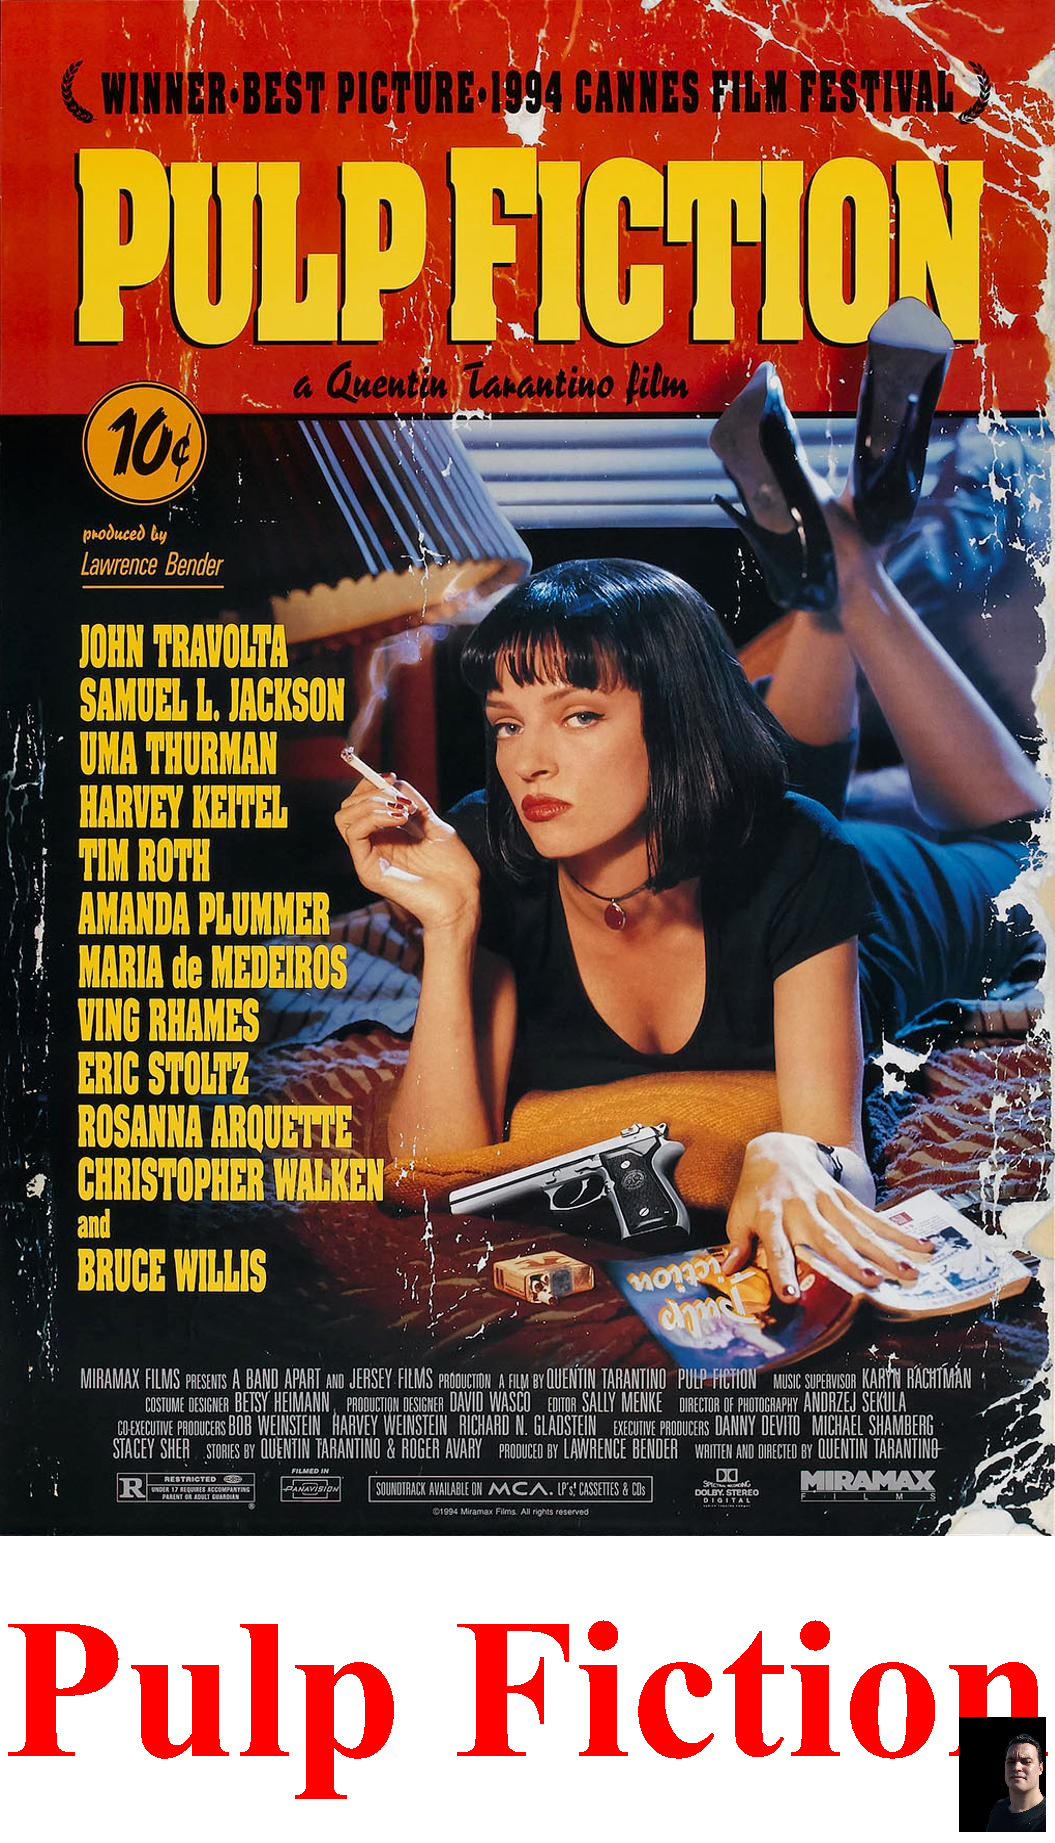
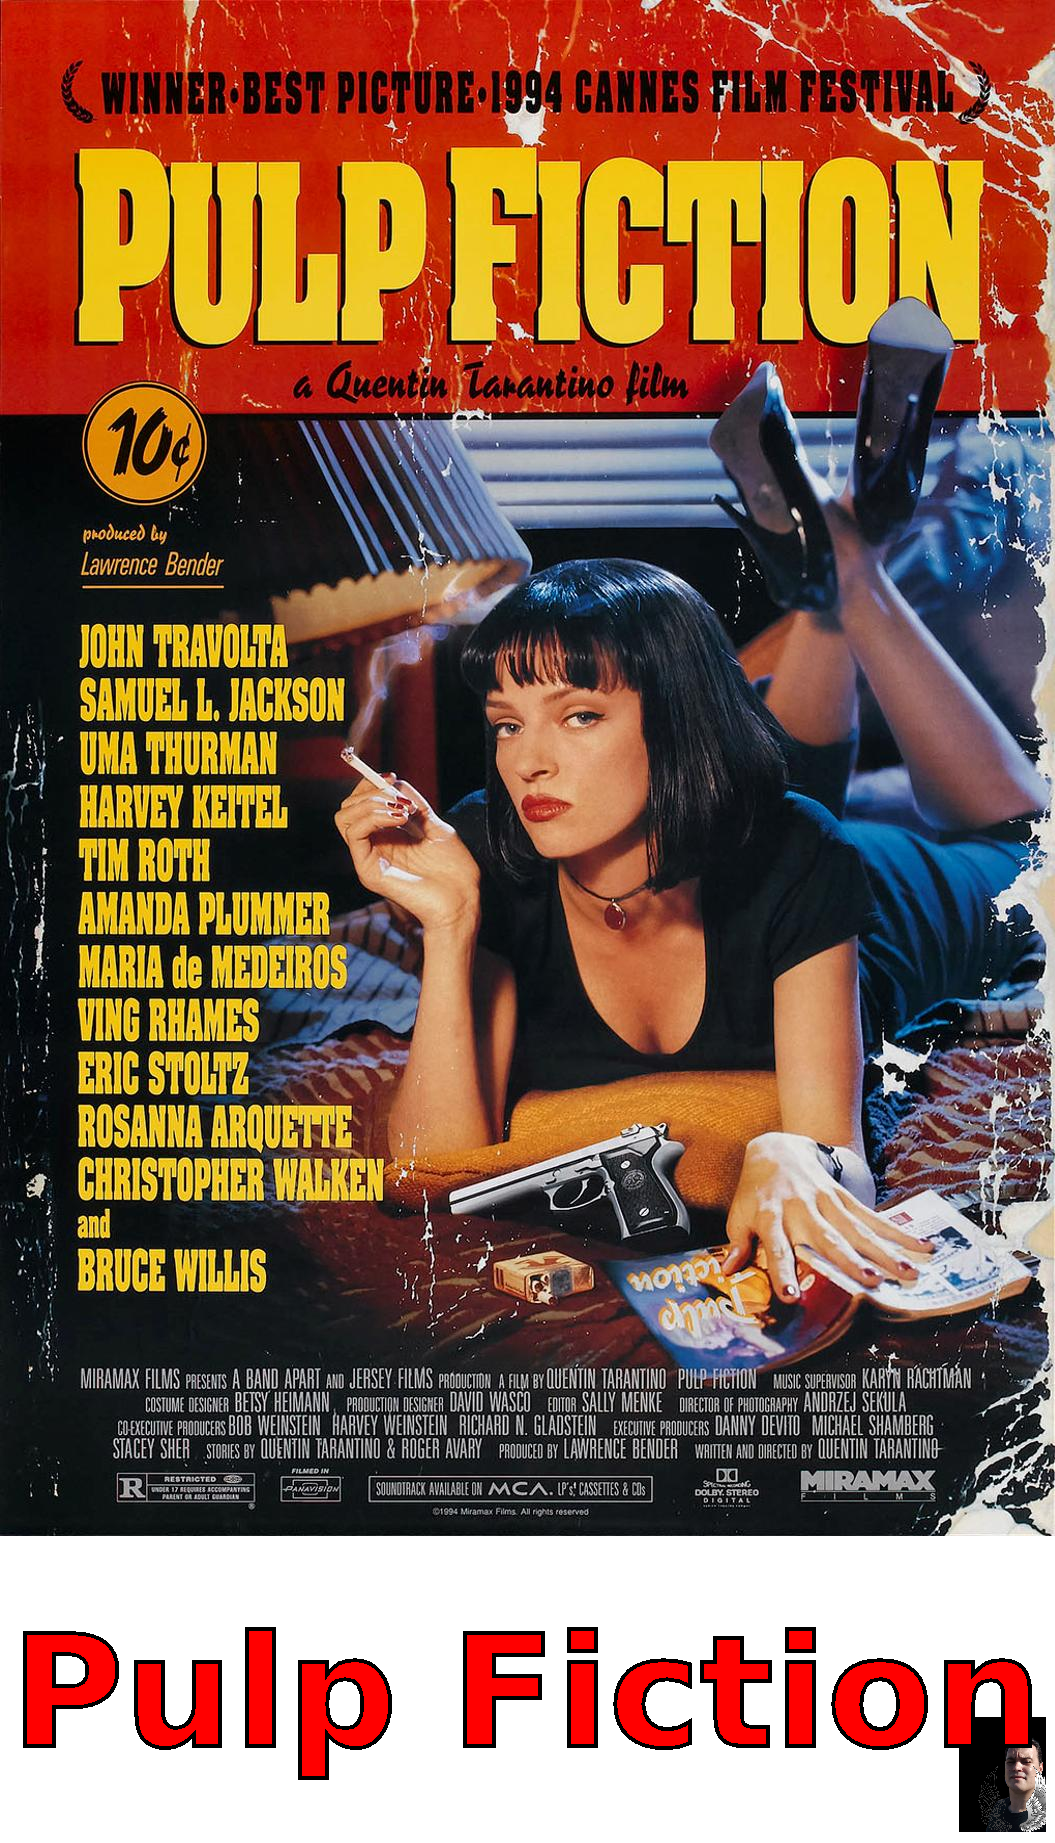
Added watermark and outline

Changed region(s): [[0.4246, 0.866, 1.0, 1.0], [0.0, 0.866, 0.3943, 0.9897]]

diff --git a/src/StickerFactory.java b/src/StickerFactory.java
@@ -1,7 +1,11 @@
+import java.awt.BasicStroke;
 import java.awt.Color;
 import java.awt.Font;
 import java.awt.Graphics2D;
-import java.awt.Image;
+import java.awt.Shape;
+import java.awt.font.FontRenderContext;
+import java.awt.font.TextLayout;
+import java.awt.geom.AffineTransform;
 import java.awt.image.BufferedImage;
 import java.awt.image.RenderedImage;
 import java.io.File;
@@ -39,10 +43,10 @@ public class StickerFactory {
     
     }
     public void create(InputStream sourceImage) throws IOException{
-        this.create(sourceImage, "");
+        this.create(sourceImage, "", null);
     } 
 
-    public void create(InputStream sourceImage, String text) throws IOException{
+    public void create(InputStream sourceImage, String text, InputStream watermark) throws IOException{
         /*
          * Clean source text
          */
@@ -67,32 +71,55 @@ public class StickerFactory {
         Graphics2D graphics = (Graphics2D) resized.getGraphics();
         graphics.drawImage(original, 0, 0, null);
 
+        
+        /*
+        * Configure water mark
+        */
+        if (watermark != null){
+            BufferedImage waterMarkImage = ImageIO.read(watermark);
+            float scale = Math.min((orgWidth/waterMarkImage.getWidth())*0.1f, (orgHeight/waterMarkImage.getHeight())*0.1f);
+            waterMarkImage = resizeImage(waterMarkImage, Math.round(waterMarkImage.getWidth()*scale), Math.round(waterMarkImage.getHeight()*scale));
+
+            /*
+            * Write water mark
+            */
+            graphics.drawImage(waterMarkImage, null, Math.round(orgWidth - waterMarkImage.getWidth()*1.1f), Math.round(rsdHeigth - waterMarkImage.getHeight()*1.1f));
+        }
+
+        
         /*
          * Configure text font
          */
         if(text.length() > 0){
-            Font font = new Font(Font.SERIF, Font.BOLD, getFontSize(graphics, text, Font.SERIF, Font.BOLD, orgHeight, orgWidth));
+            Font font = new Font("Imperial", Font.BOLD, getFontSize(graphics, text, Font.SERIF, Font.BOLD, orgHeight, orgWidth));
             graphics.setFont(font);
             graphics.setColor(Color.RED); 
         
         /*
         * Write text
         */
-            graphics.drawString(text, (orgWidth - graphics.getFontMetrics().stringWidth(text))/2 , rsdHeigth - (rsdHeigth-orgHeight)/2f + font.getSize()/3);
+            int textPosX = (orgWidth - graphics.getFontMetrics().stringWidth(text))/2;    
+            int textPosY = Math.round(rsdHeigth - (rsdHeigth-orgHeight)/2f + font.getSize()/2.75f);
+            graphics.drawString(text, textPosX, textPosY);
+        
+        /*
+         * Outline
+         */
+            FontRenderContext fontRenderContext = graphics.getFontRenderContext();
+            TextLayout textLayout = new TextLayout(text, font, fontRenderContext);
 
+            Shape outline = textLayout.getOutline(null);
+            AffineTransform transform = graphics.getTransform();
+            transform.translate(textPosX, textPosY);
+            graphics.setTransform(transform);
+            
+            BasicStroke stroke = new BasicStroke(font.getSize() * 0.025f);
+            graphics.setStroke(stroke);
+            graphics.setColor(Color.BLACK);
+            graphics.draw(outline);
+            graphics.setClip(outline);
+        
         }
-
-        /*
-         * Configure water mark
-         */
-        BufferedImage waterMark = ImageIO.read(new FileInputStream(INPUT + "watermark.png"));
-        float scale = Math.min((orgWidth/waterMark.getWidth())*0.1f, (orgHeight/waterMark.getHeight())*0.1f);
-        waterMark = resizeImage(waterMark, Math.round(waterMark.getWidth()*scale), Math.round(waterMark.getHeight()*scale));
-
-        /*
-         * Write water mark
-         */
-         graphics.drawImage(waterMark, null, Math.round(orgWidth - waterMark.getWidth()*1.1f), Math.round(rsdHeigth - waterMark.getHeight()*1.1f));
 
         /*
          * Save image
@@ -131,10 +158,10 @@ public class StickerFactory {
 
 
     private int getFontSize(Graphics2D graphics, String text, String fontName, int fontStyle, int height, int width){
-        Font baseFont = new Font(fontName, fontStyle, Math.round(Math.min(height * 1.2f, (width*1.4f)/(text.length()-1))));
+        Font baseFont = new Font(fontName, fontStyle, Math.round((width*1.4f)/(text.length()-1)));
         graphics.setFont(baseFont);        
         int fontSize = (int) Math.floor(((Double.valueOf(width))/graphics.getFontMetrics().stringWidth(text))*baseFont.getSize());
-        return fontSize;
+        return Math.min(Math.round(height * 0.25f), fontSize);
     }
 
     /*
@@ -145,6 +172,7 @@ public class StickerFactory {
         Graphics2D graphics2D = resizedImage.createGraphics();
         graphics2D.drawImage(originalImage, 0, 0, targetWidth, targetHeight, null);
         graphics2D.dispose();
+        
         return resizedImage;
     }
 
@@ -164,7 +192,7 @@ public class StickerFactory {
              ));
         for (String text : texts) {
             sourceImage = new FileInputStream(INPUT + "shawshank.jpg");
-            stickerFactory.create(sourceImage, text);
+            stickerFactory.create(sourceImage, text, null);
         }
     }
 }

diff --git a/src/App.java b/src/App.java
@@ -1,5 +1,7 @@
+import java.io.File;
 import java.io.FileInputStream;
 import java.io.IOException;
+import java.io.InputStream;
 import java.net.URI;
 import java.net.URL;
 import java.net.http.HttpClient;
@@ -47,7 +49,13 @@ public class App {
             String image = movie.get("image") + String.join("", Collections.nCopies(maxUrlLength - movie.get("image").length(), " "));
             String rating = movie.get("imDbRating") + String.join("", Collections.nCopies(maxRatingLength - movie.get("imDbRating").length(), " "));
             System.out.println(title + "\t|\t" + rating +  "\t|\t" + image);
-            sf.create(new URL(image).openStream(), title); 
+            InputStream watermark;
+            if(Double.parseDouble(rating) > 9d){
+                watermark = new FileInputStream(new File("resources/watermark-devil.png"));
+            } else{
+                watermark = new FileInputStream(new File("resources/watermark-angel.png"));
+            }
+            sf.create(new URL(image).openStream(), title, watermark); 
         }
     }
 
